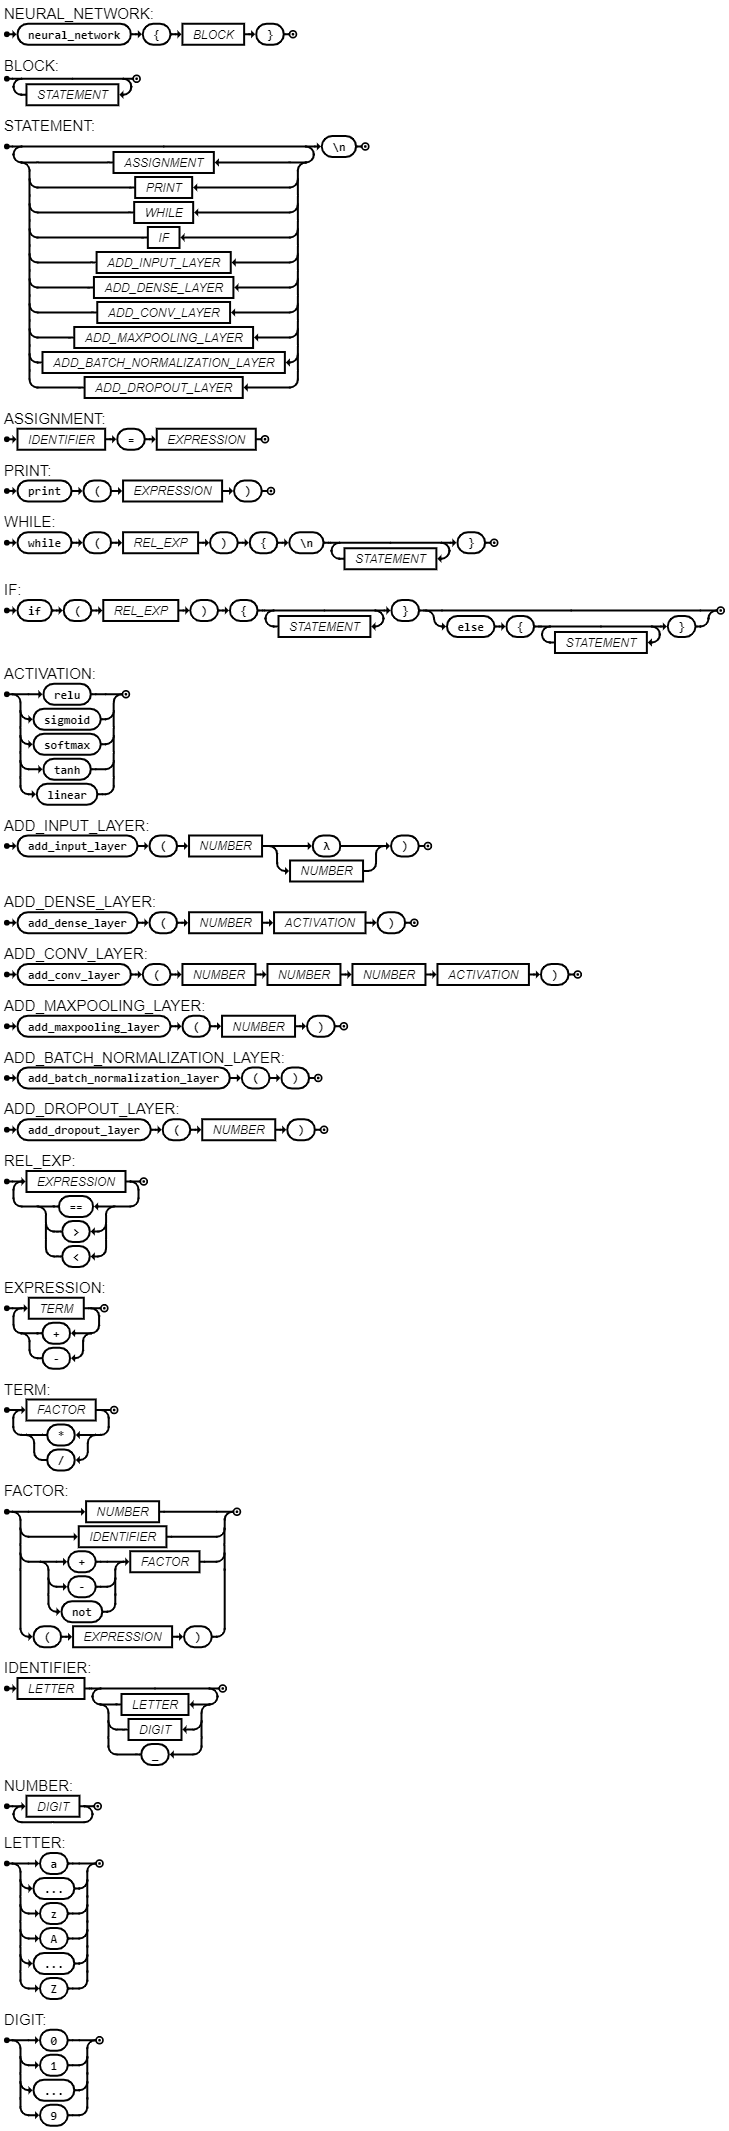
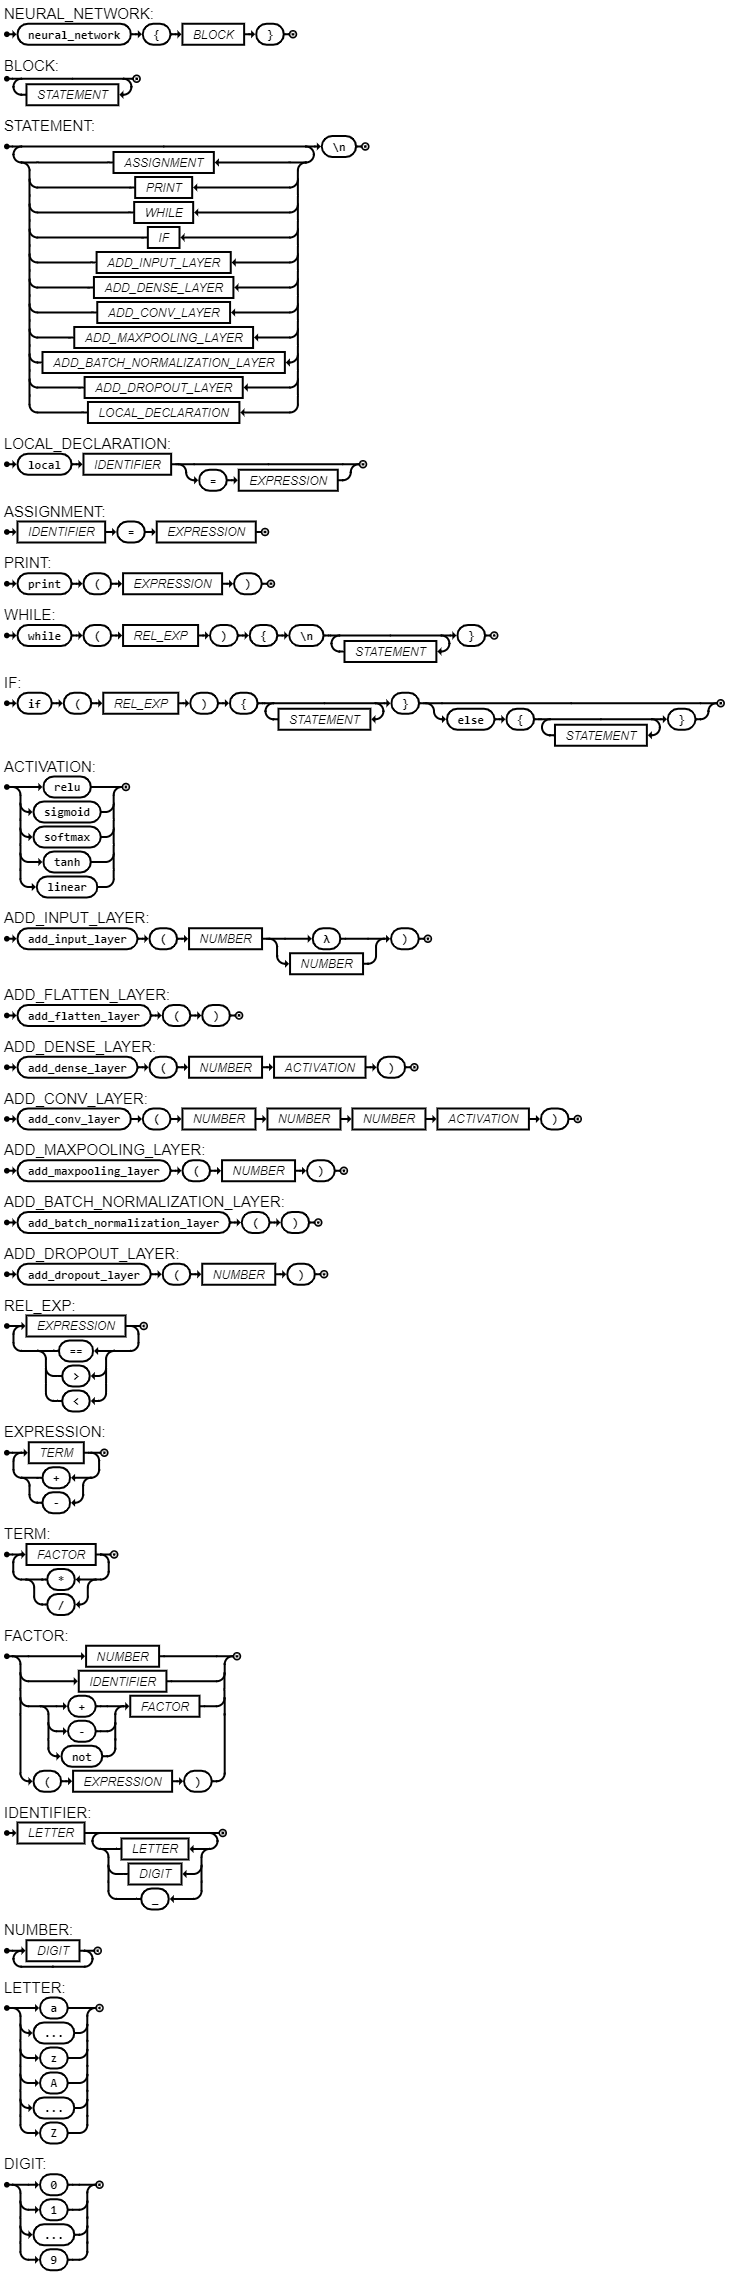
Chore: Add imgs, slides link and EBNF corrections

Changed region(s): [[0.0, 0.0, 0.9959, 1.0]]

diff --git a/raske.py b/raske.py
@@ -257,7 +257,6 @@ class FuncCall(Node):
         
         new_symbol_table = SymbolTable()
         for i in range(len(self.children)):
-            # print('func', func.children[i + 1].value.value, self.children[i].evaluate(symbol_table, func_table))
             new_symbol_table.create(func.children[i + 1].value.value)
             new_symbol_table.set(func.children[i + 1].value.value, self.children[i].evaluate(symbol_table, func_table))
         
@@ -402,7 +401,6 @@ class PrePro:
 class Tokenizer:
     def __init__(self, source: str):
         self.source = source
-        # print('len: ', len(self.source))
         self.position = 0
         self.actual = None
         self.aux_token = None
@@ -728,7 +726,6 @@ class Parser:
         return Block(Token('BLOCK', 'block'), result)
         
     def parse_statement(self):
-        # padding_symbol_table = SymbolTable()
         if self.actual_token.type == 'PRINT':
             self.actual_token = self.tokenizer.select_next()
             return Print(Token('PRINT', 'print'), [self.parse_bool_expression()])
@@ -974,7 +971,6 @@ class Parser:
         elif self.actual_token.type == 'WHILE':
             self.actual_token = self.tokenizer.select_next()
             
-            # ADDED
             if self.actual_token.type != 'LPAREN':
                 raise ValueError("Esperado '(' após while")
             self.actual_token = self.tokenizer.select_next()
@@ -984,9 +980,8 @@ class Parser:
             if self.actual_token.type != 'RPAREN':
                 raise ValueError("Esperado ')' após condição")
             self.actual_token = self.tokenizer.select_next()
-            # --------
             
-            # Changed
+            
             if self.actual_token.type != 'LBRACE':
                 raise ValueError("Esperado '{' após while")
             self.actual_token = self.tokenizer.select_next()
@@ -995,7 +990,6 @@ class Parser:
                 raise ValueError("Esperado 'EOL' após do")
             self.actual_token = self.tokenizer.select_next()
             
-            # Changed
             result_block = []
             while self.actual_token.type != 'RBRACE':
                 result_block.append(self.parse_statement())
@@ -1026,13 +1020,11 @@ class Parser:
                 raise ValueError("Esperado 'EOL' após then")
             self.actual_token = self.tokenizer.select_next()
             
-            # Precisa mudar mais aq
             result_block = []
             while self.actual_token.type != 'RBRACE':
                 result_block.append(self.parse_statement())
             block = Block(Token('BLOCK', 'block'), result_block)
             self.actual_token = self.tokenizer.select_next()
-            # print(self.actual_token.type, self.actual_token.value)
             
             if self.actual_token.type == 'ELSE':
                 self.actual_token = self.tokenizer.select_next()
@@ -1053,7 +1045,6 @@ class Parser:
                 
                 return If(Token('IF', 'if'), [condition, block, block_else])
             else:
-                # print(self.actual_token.type, self.actual_token.value)
                 if self.actual_token.type != 'EOL':
                     raise ValueError("Esperado 'EOL' após bloco")
                 return If(Token('IF', 'if'), [condition, block, NoOp(Token('NOOP', 'noop'))])
@@ -1130,7 +1121,6 @@ def main():
         
         model.save(f"{path.split('.')[0]}.h5")
         with open(f"{path.split('.')[0]}.summary",'w') as fh:
-            # Pass the file handle in as a lambda function to make it callable
             model.summary(print_fn=lambda x: fh.write(x + '\n'))
         keras.utils.plot_model(model, 
                                to_file=f"{path.split('.')[0]}.png", 

diff --git a/README.md b/README.md
@@ -4,6 +4,10 @@
 
 O Raske é uma linguagem de programação desenvolvida especificamente para simplificar a criação e definição de arquiteturas de redes neurais de forma intuitiva e eficiente. Com o Raske, os desenvolvedores podem descrever a estrutura de suas redes neurais de maneira concisa e legível, sem a necessidade de lidar diretamente com a complexidade do código de implementação.
 
+### Slides
+
+Para acessar a apresentação em slides, clique [aqui](https://www.overleaf.com/read/mjnbbjtvgvtm#6af356).
+
 ### Características
 
 - **Sintaxe Simples**: A sintaxe da linguagem é intuitiva e fácil de aprender, permitindo que os desenvolvedores criem arquiteturas de redes neurais de forma rápida e eficaz.
@@ -15,7 +19,8 @@ O Raske é uma linguagem de programação desenvolvida especificamente para simp
 ```ebnf
 NEURAL_NETWORK   = "neural_network", '{', BLOCK, '}' ;
 BLOCK = { STATEMENT } ;
-STATEMENT        = { ASSIGNMENT | PRINT | WHILE | IF  | ADD_INPUT_LAYER |  ADD_DENSE_LAYER | ADD_CONV_LAYER | ADD_MAXPOOLING_LAYER | ADD_BATCH_NORMALIZATION_LAYER | ADD_DROPOUT_LAYER }, "\n" ;
+STATEMENT        = { ASSIGNMENT | PRINT | WHILE | IF  | ADD_INPUT_LAYER |  ADD_DENSE_LAYER | ADD_CONV_LAYER | ADD_MAXPOOLING_LAYER | ADD_BATCH_NORMALIZATION_LAYER | ADD_DROPOUT_LAYER | LOCAL_DECLARATION }, "\n" ;
+LOCAL_DECLARATION = "local", IDENTIFIER, [ "=", EXPRESSION ] ;
 ASSIGNMENT       = IDENTIFIER, '=', EXPRESSION ;
 PRINT            = "print", '(', EXPRESSION, ')' ;
 WHILE            = "while", "(", REL_EXP, ")", "{", "\n", { (STATEMENT)}, "}" ;
@@ -23,6 +28,7 @@ IF = "if", "(", REL_EXP, ")", "{", { STATEMENT }, "}", [ "else", "{", { STATEMEN
 
 ACTIVATION = "relu" | "sigmoid" | "softmax" | "tanh" | "linear";
 ADD_INPUT_LAYER = "add_input_layer", "(", NUMBER, ("λ"| NUMBER,),")";
+ADD_FLATTEN_LAYER = "add_flatten_layer", "(", ")";
 ADD_DENSE_LAYER = "add_dense_layer", "(", NUMBER, ACTIVATION,")";
 ADD_CONV_LAYER = "add_conv_layer", "(", NUMBER, NUMBER, NUMBER, ACTIVATION,")";
 ADD_MAXPOOLING_LAYER = "add_maxpooling_layer", "(", NUMBER,")";
